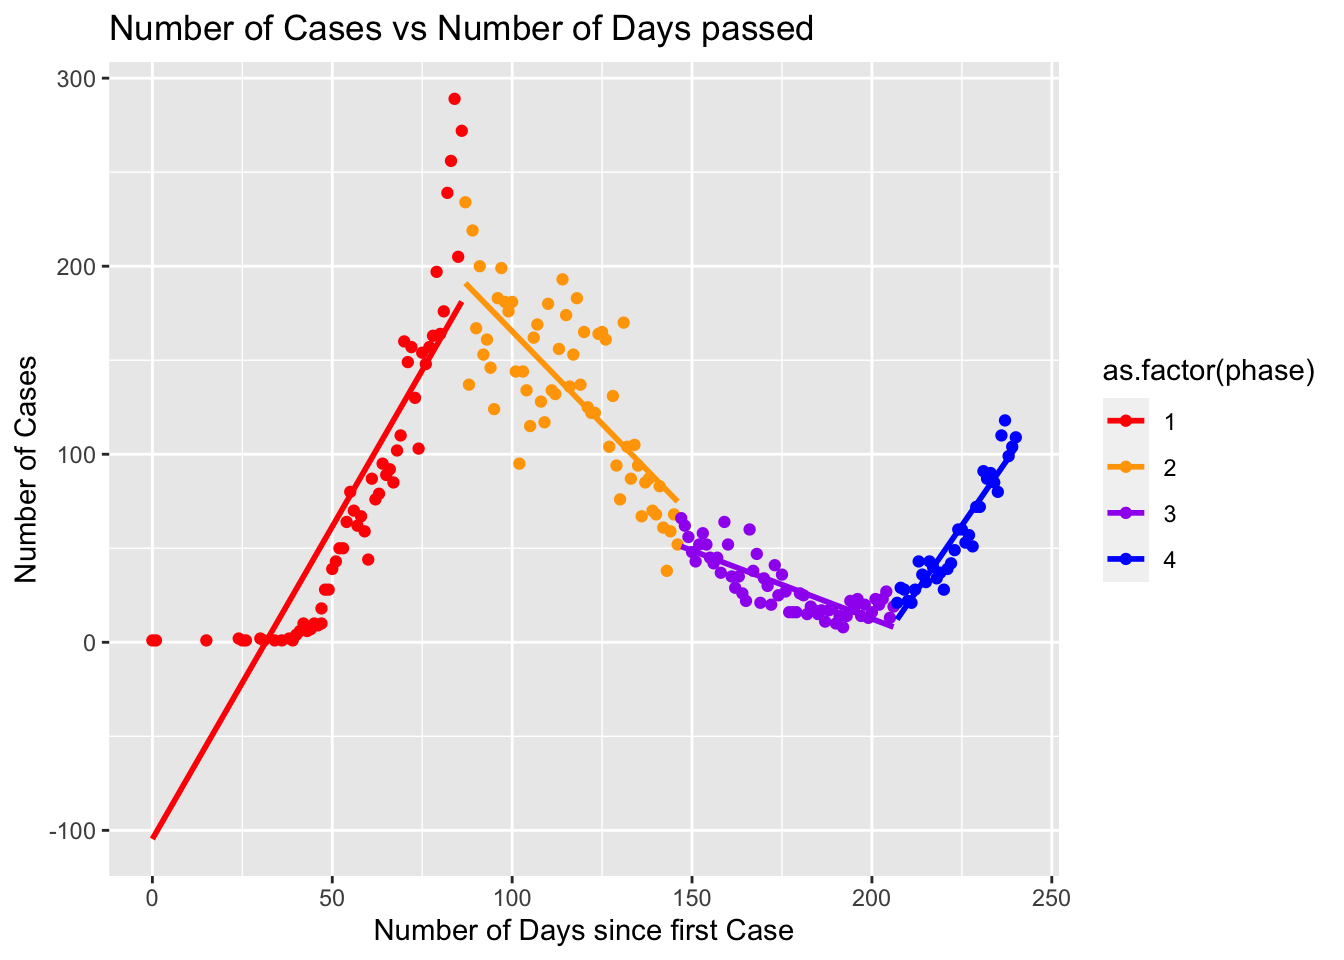
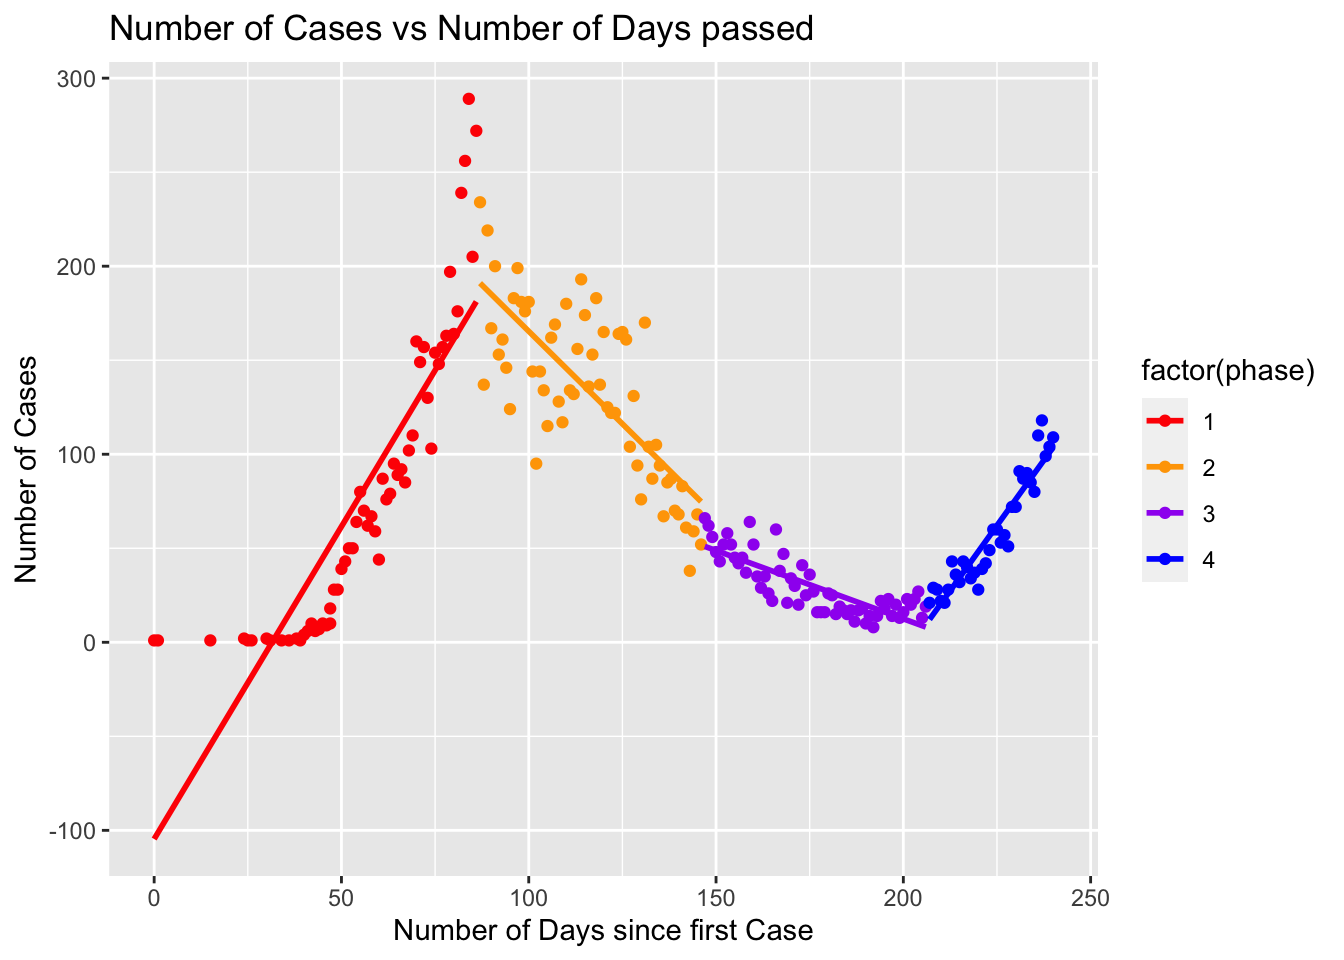
Updated files

diff --git a/public/1/01/01/covid-19-is-on-decline.-or-is-it/index.html b/public/1/01/01/covid-19-is-on-decline.-or-is-it/index.html
@@ -60,7 +60,7 @@
 
   <article class="article">
     
-    <span class="article-duration">14 min read</span>
+    <span class="article-duration">12 min read</span>
     
 
     <h1 class="article-title">COVID-19 is on Decline. OR IS IT?</h1>
@@ -114,14 +114,17 @@ head(covid_raw_data)</code></pre>
 ## #   ICU` &lt;chr&gt;, `Ever Intubated` &lt;chr&gt;</code></pre>
 <pre class="r"><code># removing rows with any na values for any column.
 covid_data &lt;- drop_na(covid_raw_data)
+
 # filtering rows with classification as probable 
 covid_data &lt;- covid_data %&gt;% filter(Classification == &quot;CONFIRMED&quot;)
+
 # selecting only the columns required
 covid_data &lt;- covid_data %&gt;% select(&#39;Episode Date&#39;,&#39;Outbreak Associated&#39;, &#39;Age Group&#39;, &#39;Source of Infection&#39;, &#39;Client Gender&#39;, &#39;Outcome&#39;, &#39;Ever Hospitalized&#39;)
 
-# creating plots for better visual grasp
+# creating barplots for better visual grasp of different variables that might be of interest.
 ages &lt;- covid_data %&gt;% select(&#39;Age Group&#39;)
 source &lt;- covid_data %&gt;% select(&#39;Source of Infection&#39;)
+
 barplot(table(ages),  las=2, cex.names=.5)</code></pre>
 <p><img src="/post/2015-07-23-r-rmarkdown_files/figure-html/unnamed-chunk-1-1.png" width="672" /></p>
 <pre class="r"><code>barplot(table(source),  las=2, cex.names=.5)</code></pre>
@@ -132,26 +135,30 @@ First we clean up the data and extract all the columns which might be useful in 
 covid_time_series &lt;- as.data.frame(table(covid_data %&gt;% select(&#39;Episode Date&#39;))) %&gt;%  slice(1:(n()-3))
 covid_time_series &lt;- covid_time_series %&gt;% rename(&#39;Date&#39; = &#39;Var1&#39;, &#39;Number of Cases&#39; = &#39;Freq&#39;)
 
+# Scatter plot of the number of days passed v.s. the number of cases.
 ggplot(covid_time_series, aes (x = Date, y = `Number of Cases`))  + labs( title = &quot;Number of COVID cases Overtime&quot;, xlab = &quot;Dates from Jan to Sept 23rd&quot;, ylab = &quot;Number of cases&quot;) +  geom_point()  +theme_bw()+theme(plot.title = element_text(hjust = 0.5))</code></pre>
 <p><img src="/post/2015-07-23-r-rmarkdown_files/figure-html/unnamed-chunk-2-1.png" width="672" /></p>
-<pre class="r"><code>#ggplot(covid_time_series, aes (x = `Number of Cases`)) + labs( title = &quot;Number of COVID cases Overtime&quot;, xlab = &quot;Dates from Jan to Sept 23rd&quot;, ylab = &quot;Number of cases&quot;) +  geom_histogram()  +theme_bw()+theme(plot.title = element_text(hjust = 0.5))
-barplot(covid_time_series$`Number of Cases`)</code></pre>
+<pre class="r"><code>barplot(covid_time_series$`Number of Cases`)</code></pre>
 <p><img src="/post/2015-07-23-r-rmarkdown_files/figure-html/unnamed-chunk-2-2.png" width="672" /></p>
 <pre class="r"><code>summary(covid_time_series$`Number of Cases`)</code></pre>
 <pre><code>##    Min. 1st Qu.  Median    Mean 3rd Qu.    Max. 
 ##    1.00   23.50   59.00   76.78  122.00  289.00</code></pre>
 <p>The above plot if our major concern and it is a time-series(number of cases as the days passed by) graph which portrays the two variables date and count/number of cases. <em>DATE</em> is our <strong>Explanatory variable</strong> because the number of cases clearly depends on the how long COVID has been in a community. The <em>Number of cases</em> are a <strong>response variable</strong> because it is what we are interested in predicting and want to see the current trend so far. By eyeballing the graph we can see so strong trends in the data that we will explore thoroughly later in the blog.The distribution for the response variable can be viewed simply as the probability of the variable having a certain x value. We can see that it is a bi modal variable because it has two peaks of maximas. Also we can safely assume that the data is normal as it is symmetric about the center respectively for the two modes above.Lastly, summary statistics which consists of minimum, maximum, mean and the percentiles(<em>25th</em>, <em>50th</em>, <em>75th</em>) for the number of cases are also displayed.</p>
-<pre class="r"><code># converting the dates in numerical x values assuming.
+<pre class="r"><code># converting the string number to integers
 numextract &lt;- function(string){ 
   str_extract(string, &quot;\\-*\\d+\\.*\\d*&quot;)
 } 
+
+# Converting to number of days passes since first Covid case for each of the date row.
 covid_time_series &lt;- covid_time_series %&gt;% arrange(Date) %&gt;% mutate(diff = numextract(difftime(Date, &#39;2020-01-21&#39;)/(60*60*24)))
 covid_time_series$diff &lt;- as.integer(covid_time_series$diff)
 sapply(covid_time_series, class)</code></pre>
 <pre><code>##            Date Number of Cases            diff 
 ##        &quot;factor&quot;       &quot;integer&quot;       &quot;integer&quot;</code></pre>
-<pre class="r"><code>linear_model = lm(covid_time_series$`Number of Cases` ~ covid_time_series$diff, data = covid_time_series)
+<pre class="r"><code># Plotting a simple linear regression for the whole data-set
+linear_model = lm(covid_time_series$`Number of Cases` ~ covid_time_series$diff, data = covid_time_series)
 
+# Creating the scatter plot for the data and the line of best fit.
 ggplot(covid_time_series, aes(x = diff,y = `Number of Cases`)) + 
   xlab(&quot;Number of Days since first Covid case in Toronto&quot;)+
   ggtitle(&quot;Number of COVID cases v.s Number of Days Passed&quot;)+
@@ -185,101 +192,36 @@ ggplot(covid_time_series, aes(x = diff,y = `Number of Cases`)) +
 <div id="linear-regression" class="section level1">
 <h1>Linear Regression</h1>
 <p>We first add another column into the data set that consists of the number of days passed between the first day COVID case was recorded which was 2020-01-21 to the Date in each of the rows. This is a numeric value and can be used as the x parameter for our linear regression model. We use the line of best fit (also called the regression line) to model all the number of cases in Toronto as the number of days increases. Clearly, we can see that there is a downtrend overall, however this should be taken with a pinch of salt. The reason being that our current best fit line has very large error with many data points. Error is the difference between the actual data-point and the number of cases predicted by our line for any x value. A model is good if and only if the errors are relatively small. Thus our current model lacks the sophistication required to draw any certain conclusion yet.</p>
-<pre class="r"><code>covid_time_series &lt;- covid_time_series %&gt;% mutate(id = row_number())
+<pre class="r"><code># Adding a column with id = row.id
+covid_time_series &lt;- covid_time_series %&gt;% mutate(id = row_number())
+
+# Adding another column for splitting the data into four equal phases.
 covid_time_series &lt;- covid_time_series %&gt;% mutate(phase = ifelse(id &lt;= 60, 1, ifelse(id &lt;=120 &amp; id &gt; 60, 2, ifelse(id &lt;= 180 &amp; id &gt; 120, 3, 4))))
 
+# Splitting the data into 4 different data frames.
 phase1 &lt;- covid_time_series[1:60,]
 phase2 &lt;- covid_time_series[61:120,]
 phase3 &lt;- covid_time_series[121:180,]
 phase4 &lt;- covid_time_series[180:214,]
 
+# Modeling the simple linear regression for all the phases.
 linear_model1 &lt;- lm(phase1$`Number of Cases` ~ phase1$diff, phase1)
 linear_model2 &lt;- lm(phase2$`Number of Cases` ~ phase2$diff, phase2)
 linear_model3 &lt;- lm(phase3$`Number of Cases` ~ phase3$diff, phase3)
 linear_model4 &lt;- lm(phase4$`Number of Cases` ~ phase4$diff, phase4)
 
-
-ggplot(covid_time_series, aes(x = diff, y = `Number of Cases`, color = as.factor(phase))) +        geom_point() +  
+# Creating a combined graph for all the days.
+ggplot(covid_time_series, aes(x = diff, y = `Number of Cases`, color = factor(phase))) +        geom_point() +  
          scale_colour_manual(values = c(&quot;red&quot;, &quot;orange&quot;, &quot;purple&quot;, &quot;blue&quot;)) + 
          theme() + labs(x = &quot;Number of Days since first Case&quot;, title = &quot;Number of Cases vs Number of Days passed&quot;) + 
   geom_smooth(method = lm, se = FALSE )</code></pre>
 <p><img src="/post/2015-07-23-r-rmarkdown_files/figure-html/unnamed-chunk-4-1.png" width="672" /></p>
-<pre class="r"><code>summary(linear_model1)</code></pre>
-<pre><code>## 
-## Call:
-## lm(formula = phase1$`Number of Cases` ~ phase1$diff, data = phase1)
-## 
-## Residuals:
-##    Min     1Q Median     3Q    Max 
-## -50.78 -25.08 -13.55  12.99 114.47 
-## 
-## Coefficients:
-##              Estimate Std. Error t value Pr(&gt;|t|)    
-## (Intercept) -104.6135    14.7259  -7.104 1.96e-09 ***
-## phase1$diff    3.3232     0.2508  13.248  &lt; 2e-16 ***
-## ---
-## Signif. codes:  0 &#39;***&#39; 0.001 &#39;**&#39; 0.01 &#39;*&#39; 0.05 &#39;.&#39; 0.1 &#39; &#39; 1
-## 
-## Residual standard error: 39.27 on 58 degrees of freedom
-## Multiple R-squared:  0.7516, Adjusted R-squared:  0.7473 
-## F-statistic: 175.5 on 1 and 58 DF,  p-value: &lt; 2.2e-16</code></pre>
-<pre class="r"><code>summary(linear_model2)</code></pre>
-<pre><code>## 
-## Call:
-## lm(formula = phase2$`Number of Cases` ~ phase2$diff, data = phase2)
-## 
-## Residuals:
-##     Min      1Q  Median      3Q     Max 
-## -66.454 -19.504  -2.062  17.012  65.654 
-## 
-## Coefficients:
-##             Estimate Std. Error t value Pr(&gt;|t|)    
-## (Intercept) 362.3134    25.7492  14.071  &lt; 2e-16 ***
-## phase2$diff  -1.9692     0.2186  -9.007 1.29e-12 ***
-## ---
-## Signif. codes:  0 &#39;***&#39; 0.001 &#39;**&#39; 0.01 &#39;*&#39; 0.05 &#39;.&#39; 0.1 &#39; &#39; 1
-## 
-## Residual standard error: 29.33 on 58 degrees of freedom
-## Multiple R-squared:  0.5831, Adjusted R-squared:  0.5759 
-## F-statistic: 81.13 on 1 and 58 DF,  p-value: 1.289e-12</code></pre>
-<pre class="r"><code>summary(linear_model3)</code></pre>
-<pre><code>## 
-## Call:
-## lm(formula = phase3$`Number of Cases` ~ phase3$diff, data = phase3)
-## 
-## Residuals:
-##      Min       1Q   Median       3Q      Max 
-## -15.9048  -6.0844  -0.9048   6.1955  22.8217 
-## 
-## Coefficients:
-##              Estimate Std. Error t value Pr(&gt;|t|)    
-## (Intercept) 157.77855   12.40787   12.72  &lt; 2e-16 ***
-## phase3$diff  -0.72651    0.06996  -10.38 7.54e-15 ***
-## ---
-## Signif. codes:  0 &#39;***&#39; 0.001 &#39;**&#39; 0.01 &#39;*&#39; 0.05 &#39;.&#39; 0.1 &#39; &#39; 1
-## 
-## Residual standard error: 9.385 on 58 degrees of freedom
-## Multiple R-squared:  0.6502, Adjusted R-squared:  0.6442 
-## F-statistic: 107.8 on 1 and 58 DF,  p-value: 7.538e-15</code></pre>
-<pre class="r"><code>summary(linear_model4)</code></pre>
-<pre><code>## 
-## Call:
-## lm(formula = phase4$`Number of Cases` ~ phase4$diff, data = phase4)
-## 
-## Residuals:
-##      Min       1Q   Median       3Q      Max 
-## -20.6412  -8.3703   0.4423   5.8282  22.9636 
-## 
-## Coefficients:
-##              Estimate Std. Error t value Pr(&gt;|t|)    
-## (Intercept) -551.7678    38.2062  -14.44 8.03e-16 ***
-## phase4$diff    2.7291     0.1712   15.95  &lt; 2e-16 ***
-## ---
-## Signif. codes:  0 &#39;***&#39; 0.001 &#39;**&#39; 0.01 &#39;*&#39; 0.05 &#39;.&#39; 0.1 &#39; &#39; 1
-## 
-## Residual standard error: 10.23 on 33 degrees of freedom
-## Multiple R-squared:  0.8851, Adjusted R-squared:  0.8816 
-## F-statistic: 254.3 on 1 and 33 DF,  p-value: &lt; 2.2e-16</code></pre>
+<pre class="r"><code># The following code is commented for readability of blog.
+# The slope parameter were calculated from here.
+# summary(linear_model1)
+# summary(linear_model2)
+# summary(linear_model3)
+# summary(linear_model4)</code></pre>
 <p>To address the concern in the previous paragraph we have divided our data set into 4 equal halves called phases. Each phase consists approximately 70 days worth of data. Now we plot 4 regression lines to more accurately depict the scenario and this time the results are astonishingly better than before. Let us see how. Clearly, the lines of best fit are more tighter and closer to the data points and thus we have lower error rates and better fit. Thus we can conclude that even though the middle two phases we a sharp down-trend we are amid of the start of an uptrend if the necessary precautions are not taken.</p>
 <pre class="r"><code># Evaluating the correlation coefficients for each of the phases separately.
 cor(phase1$diff, phase1$`Number of Cases`)</code></pre>

diff --git a/content/post/2015-07-23-r-rmarkdown.html b/content/post/2015-07-23-r-rmarkdown.html
@@ -50,14 +50,17 @@ head(covid_raw_data)</code></pre>
 ## #   ICU` &lt;chr&gt;, `Ever Intubated` &lt;chr&gt;</code></pre>
 <pre class="r"><code># removing rows with any na values for any column.
 covid_data &lt;- drop_na(covid_raw_data)
+
 # filtering rows with classification as probable 
 covid_data &lt;- covid_data %&gt;% filter(Classification == &quot;CONFIRMED&quot;)
+
 # selecting only the columns required
 covid_data &lt;- covid_data %&gt;% select(&#39;Episode Date&#39;,&#39;Outbreak Associated&#39;, &#39;Age Group&#39;, &#39;Source of Infection&#39;, &#39;Client Gender&#39;, &#39;Outcome&#39;, &#39;Ever Hospitalized&#39;)
 
-# creating plots for better visual grasp
+# creating barplots for better visual grasp of different variables that might be of interest.
 ages &lt;- covid_data %&gt;% select(&#39;Age Group&#39;)
 source &lt;- covid_data %&gt;% select(&#39;Source of Infection&#39;)
+
 barplot(table(ages),  las=2, cex.names=.5)</code></pre>
 <p><img src="/post/2015-07-23-r-rmarkdown_files/figure-html/unnamed-chunk-1-1.png" width="672" /></p>
 <pre class="r"><code>barplot(table(source),  las=2, cex.names=.5)</code></pre>
@@ -68,26 +71,30 @@ First we clean up the data and extract all the columns which might be useful in 
 covid_time_series &lt;- as.data.frame(table(covid_data %&gt;% select(&#39;Episode Date&#39;))) %&gt;%  slice(1:(n()-3))
 covid_time_series &lt;- covid_time_series %&gt;% rename(&#39;Date&#39; = &#39;Var1&#39;, &#39;Number of Cases&#39; = &#39;Freq&#39;)
 
+# Scatter plot of the number of days passed v.s. the number of cases.
 ggplot(covid_time_series, aes (x = Date, y = `Number of Cases`))  + labs( title = &quot;Number of COVID cases Overtime&quot;, xlab = &quot;Dates from Jan to Sept 23rd&quot;, ylab = &quot;Number of cases&quot;) +  geom_point()  +theme_bw()+theme(plot.title = element_text(hjust = 0.5))</code></pre>
 <p><img src="/post/2015-07-23-r-rmarkdown_files/figure-html/unnamed-chunk-2-1.png" width="672" /></p>
-<pre class="r"><code>#ggplot(covid_time_series, aes (x = `Number of Cases`)) + labs( title = &quot;Number of COVID cases Overtime&quot;, xlab = &quot;Dates from Jan to Sept 23rd&quot;, ylab = &quot;Number of cases&quot;) +  geom_histogram()  +theme_bw()+theme(plot.title = element_text(hjust = 0.5))
-barplot(covid_time_series$`Number of Cases`)</code></pre>
+<pre class="r"><code>barplot(covid_time_series$`Number of Cases`)</code></pre>
 <p><img src="/post/2015-07-23-r-rmarkdown_files/figure-html/unnamed-chunk-2-2.png" width="672" /></p>
 <pre class="r"><code>summary(covid_time_series$`Number of Cases`)</code></pre>
 <pre><code>##    Min. 1st Qu.  Median    Mean 3rd Qu.    Max. 
 ##    1.00   23.50   59.00   76.78  122.00  289.00</code></pre>
 <p>The above plot if our major concern and it is a time-series(number of cases as the days passed by) graph which portrays the two variables date and count/number of cases. <em>DATE</em> is our <strong>Explanatory variable</strong> because the number of cases clearly depends on the how long COVID has been in a community. The <em>Number of cases</em> are a <strong>response variable</strong> because it is what we are interested in predicting and want to see the current trend so far. By eyeballing the graph we can see so strong trends in the data that we will explore thoroughly later in the blog.The distribution for the response variable can be viewed simply as the probability of the variable having a certain x value. We can see that it is a bi modal variable because it has two peaks of maximas. Also we can safely assume that the data is normal as it is symmetric about the center respectively for the two modes above.Lastly, summary statistics which consists of minimum, maximum, mean and the percentiles(<em>25th</em>, <em>50th</em>, <em>75th</em>) for the number of cases are also displayed.</p>
-<pre class="r"><code># converting the dates in numerical x values assuming.
+<pre class="r"><code># converting the string number to integers
 numextract &lt;- function(string){ 
   str_extract(string, &quot;\\-*\\d+\\.*\\d*&quot;)
 } 
+
+# Converting to number of days passes since first Covid case for each of the date row.
 covid_time_series &lt;- covid_time_series %&gt;% arrange(Date) %&gt;% mutate(diff = numextract(difftime(Date, &#39;2020-01-21&#39;)/(60*60*24)))
 covid_time_series$diff &lt;- as.integer(covid_time_series$diff)
 sapply(covid_time_series, class)</code></pre>
 <pre><code>##            Date Number of Cases            diff 
 ##        &quot;factor&quot;       &quot;integer&quot;       &quot;integer&quot;</code></pre>
-<pre class="r"><code>linear_model = lm(covid_time_series$`Number of Cases` ~ covid_time_series$diff, data = covid_time_series)
+<pre class="r"><code># Plotting a simple linear regression for the whole data-set
+linear_model = lm(covid_time_series$`Number of Cases` ~ covid_time_series$diff, data = covid_time_series)
 
+# Creating the scatter plot for the data and the line of best fit.
 ggplot(covid_time_series, aes(x = diff,y = `Number of Cases`)) + 
   xlab(&quot;Number of Days since first Covid case in Toronto&quot;)+
   ggtitle(&quot;Number of COVID cases v.s Number of Days Passed&quot;)+
@@ -121,101 +128,36 @@ ggplot(covid_time_series, aes(x = diff,y = `Number of Cases`)) +
 <div id="linear-regression" class="section level1">
 <h1>Linear Regression</h1>
 <p>We first add another column into the data set that consists of the number of days passed between the first day COVID case was recorded which was 2020-01-21 to the Date in each of the rows. This is a numeric value and can be used as the x parameter for our linear regression model. We use the line of best fit (also called the regression line) to model all the number of cases in Toronto as the number of days increases. Clearly, we can see that there is a downtrend overall, however this should be taken with a pinch of salt. The reason being that our current best fit line has very large error with many data points. Error is the difference between the actual data-point and the number of cases predicted by our line for any x value. A model is good if and only if the errors are relatively small. Thus our current model lacks the sophistication required to draw any certain conclusion yet.</p>
-<pre class="r"><code>covid_time_series &lt;- covid_time_series %&gt;% mutate(id = row_number())
+<pre class="r"><code># Adding a column with id = row.id
+covid_time_series &lt;- covid_time_series %&gt;% mutate(id = row_number())
+
+# Adding another column for splitting the data into four equal phases.
 covid_time_series &lt;- covid_time_series %&gt;% mutate(phase = ifelse(id &lt;= 60, 1, ifelse(id &lt;=120 &amp; id &gt; 60, 2, ifelse(id &lt;= 180 &amp; id &gt; 120, 3, 4))))
 
+# Splitting the data into 4 different data frames.
 phase1 &lt;- covid_time_series[1:60,]
 phase2 &lt;- covid_time_series[61:120,]
 phase3 &lt;- covid_time_series[121:180,]
 phase4 &lt;- covid_time_series[180:214,]
 
+# Modeling the simple linear regression for all the phases.
 linear_model1 &lt;- lm(phase1$`Number of Cases` ~ phase1$diff, phase1)
 linear_model2 &lt;- lm(phase2$`Number of Cases` ~ phase2$diff, phase2)
 linear_model3 &lt;- lm(phase3$`Number of Cases` ~ phase3$diff, phase3)
 linear_model4 &lt;- lm(phase4$`Number of Cases` ~ phase4$diff, phase4)
 
-
-ggplot(covid_time_series, aes(x = diff, y = `Number of Cases`, color = as.factor(phase))) +        geom_point() +  
+# Creating a combined graph for all the days.
+ggplot(covid_time_series, aes(x = diff, y = `Number of Cases`, color = factor(phase))) +        geom_point() +  
          scale_colour_manual(values = c(&quot;red&quot;, &quot;orange&quot;, &quot;purple&quot;, &quot;blue&quot;)) + 
          theme() + labs(x = &quot;Number of Days since first Case&quot;, title = &quot;Number of Cases vs Number of Days passed&quot;) + 
   geom_smooth(method = lm, se = FALSE )</code></pre>
 <p><img src="/post/2015-07-23-r-rmarkdown_files/figure-html/unnamed-chunk-4-1.png" width="672" /></p>
-<pre class="r"><code>summary(linear_model1)</code></pre>
-<pre><code>## 
-## Call:
-## lm(formula = phase1$`Number of Cases` ~ phase1$diff, data = phase1)
-## 
-## Residuals:
-##    Min     1Q Median     3Q    Max 
-## -50.78 -25.08 -13.55  12.99 114.47 
-## 
-## Coefficients:
-##              Estimate Std. Error t value Pr(&gt;|t|)    
-## (Intercept) -104.6135    14.7259  -7.104 1.96e-09 ***
-## phase1$diff    3.3232     0.2508  13.248  &lt; 2e-16 ***
-## ---
-## Signif. codes:  0 &#39;***&#39; 0.001 &#39;**&#39; 0.01 &#39;*&#39; 0.05 &#39;.&#39; 0.1 &#39; &#39; 1
-## 
-## Residual standard error: 39.27 on 58 degrees of freedom
-## Multiple R-squared:  0.7516, Adjusted R-squared:  0.7473 
-## F-statistic: 175.5 on 1 and 58 DF,  p-value: &lt; 2.2e-16</code></pre>
-<pre class="r"><code>summary(linear_model2)</code></pre>
-<pre><code>## 
-## Call:
-## lm(formula = phase2$`Number of Cases` ~ phase2$diff, data = phase2)
-## 
-## Residuals:
-##     Min      1Q  Median      3Q     Max 
-## -66.454 -19.504  -2.062  17.012  65.654 
-## 
-## Coefficients:
-##             Estimate Std. Error t value Pr(&gt;|t|)    
-## (Intercept) 362.3134    25.7492  14.071  &lt; 2e-16 ***
-## phase2$diff  -1.9692     0.2186  -9.007 1.29e-12 ***
-## ---
-## Signif. codes:  0 &#39;***&#39; 0.001 &#39;**&#39; 0.01 &#39;*&#39; 0.05 &#39;.&#39; 0.1 &#39; &#39; 1
-## 
-## Residual standard error: 29.33 on 58 degrees of freedom
-## Multiple R-squared:  0.5831, Adjusted R-squared:  0.5759 
-## F-statistic: 81.13 on 1 and 58 DF,  p-value: 1.289e-12</code></pre>
-<pre class="r"><code>summary(linear_model3)</code></pre>
-<pre><code>## 
-## Call:
-## lm(formula = phase3$`Number of Cases` ~ phase3$diff, data = phase3)
-## 
-## Residuals:
-##      Min       1Q   Median       3Q      Max 
-## -15.9048  -6.0844  -0.9048   6.1955  22.8217 
-## 
-## Coefficients:
-##              Estimate Std. Error t value Pr(&gt;|t|)    
-## (Intercept) 157.77855   12.40787   12.72  &lt; 2e-16 ***
-## phase3$diff  -0.72651    0.06996  -10.38 7.54e-15 ***
-## ---
-## Signif. codes:  0 &#39;***&#39; 0.001 &#39;**&#39; 0.01 &#39;*&#39; 0.05 &#39;.&#39; 0.1 &#39; &#39; 1
-## 
-## Residual standard error: 9.385 on 58 degrees of freedom
-## Multiple R-squared:  0.6502, Adjusted R-squared:  0.6442 
-## F-statistic: 107.8 on 1 and 58 DF,  p-value: 7.538e-15</code></pre>
-<pre class="r"><code>summary(linear_model4)</code></pre>
-<pre><code>## 
-## Call:
-## lm(formula = phase4$`Number of Cases` ~ phase4$diff, data = phase4)
-## 
-## Residuals:
-##      Min       1Q   Median       3Q      Max 
-## -20.6412  -8.3703   0.4423   5.8282  22.9636 
-## 
-## Coefficients:
-##              Estimate Std. Error t value Pr(&gt;|t|)    
-## (Intercept) -551.7678    38.2062  -14.44 8.03e-16 ***
-## phase4$diff    2.7291     0.1712   15.95  &lt; 2e-16 ***
-## ---
-## Signif. codes:  0 &#39;***&#39; 0.001 &#39;**&#39; 0.01 &#39;*&#39; 0.05 &#39;.&#39; 0.1 &#39; &#39; 1
-## 
-## Residual standard error: 10.23 on 33 degrees of freedom
-## Multiple R-squared:  0.8851, Adjusted R-squared:  0.8816 
-## F-statistic: 254.3 on 1 and 33 DF,  p-value: &lt; 2.2e-16</code></pre>
+<pre class="r"><code># The following code is commented for readability of blog.
+# The slope parameter were calculated from here.
+# summary(linear_model1)
+# summary(linear_model2)
+# summary(linear_model3)
+# summary(linear_model4)</code></pre>
 <p>To address the concern in the previous paragraph we have divided our data set into 4 equal halves called phases. Each phase consists approximately 70 days worth of data. Now we plot 4 regression lines to more accurately depict the scenario and this time the results are astonishingly better than before. Let us see how. Clearly, the lines of best fit are more tighter and closer to the data points and thus we have lower error rates and better fit. Thus we can conclude that even though the middle two phases we a sharp down-trend we are amid of the start of an uptrend if the necessary precautions are not taken.</p>
 <pre class="r"><code># Evaluating the correlation coefficients for each of the phases separately.
 cor(phase1$diff, phase1$`Number of Cases`)</code></pre>
